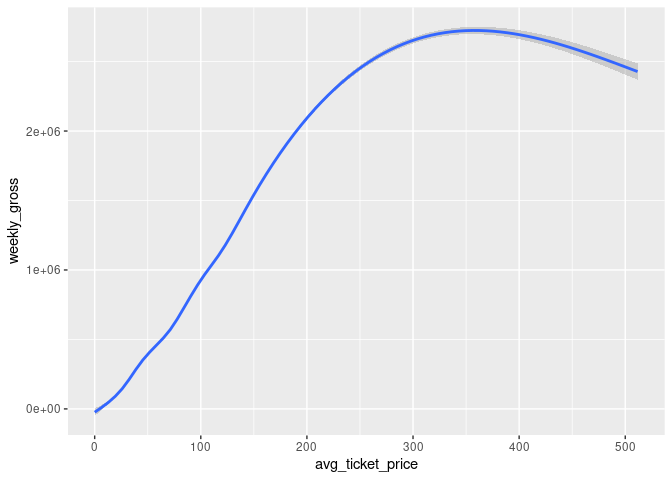
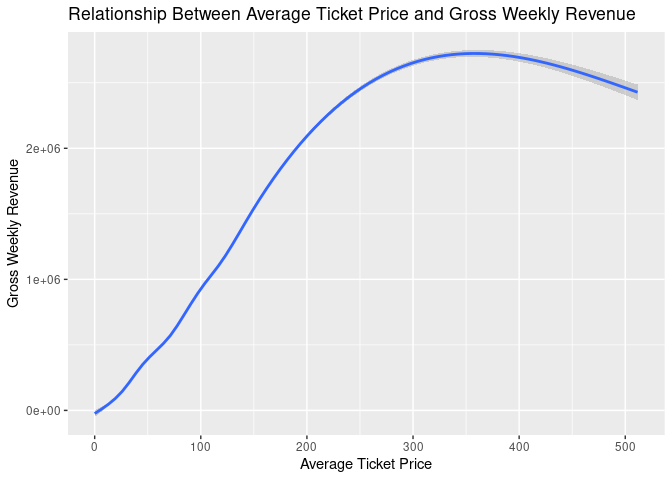
Add more details and graphs, closes #2

diff --git a/proposal/proposal.md b/proposal/proposal.md
@@ -12,10 +12,6 @@ library(tidytuesdayR)
 grosses <- readr::read_csv('https://raw.githubusercontent.com/rfordatascience/tidytuesday/master/data/2020/2020-04-28/grosses.csv', guess_max = 40000)
 ```
 
-*For instructions on what each section should include, please see the
-[project page](https://idsed.digital/assessments/project/#proposal) on
-the course website. Remove this text when completing your proposal*.
-
 ## 1. Introduction
 
 General Research Question: How to maximise gross weekly revenue in a
@@ -85,24 +81,34 @@ price” and “gross weekly revenue”, we use code:
 ``` r
 grosses%>%
   ggplot(aes(y=weekly_gross,x=avg_ticket_price))+
-  geom_smooth()
+  geom_smooth()+
+  labs(title = "Relationship Between Average Ticket Price and Gross Weekly Revenue",
+       x="Average Ticket Price",
+       y="Gross Weekly Revenue")
 ```
 
-![](proposal_files/figure-gfm/code_preliminary_1-1.png)<!-- --> By the
-first preliminary visualization, we get a curve which increases first
-but decreases after price of 350. We are going to explore the reason
-causes the decrease later.
+![](proposal_files/figure-gfm/code_preliminary_1-1.png)<!-- -->
+
+By the first preliminary visualization, we get a curve which increases
+first but decreases after price of 350. We are going to explore the
+reason causes the decrease later.
 
 ``` r
 grosses%>%
   ggplot(aes(x=pct_capacity,y=avg_ticket_price))+
-  geom_smooth()
+  geom_smooth()+
+  labs(
+    title="Influence of Theatre Seats Sold Percent",
+    x="Percent of Theatre Seats Sold",
+    y="Average Ticket Price"
+       )
 ```
 
-![](proposal_files/figure-gfm/code_preliminary_2-1.png)<!-- --> By the
-second preliminary visualization, we get a curve with increasing trend
-which implies higher percent of theatre seats sold causes higher average
-ticket price.
+![](proposal_files/figure-gfm/code_preliminary_2-1.png)<!-- -->
+
+By the second preliminary visualization, we get a curve with increasing
+trend which implies higher percent of theatre seats sold causes higher
+average ticket price.
 
 ``` r
 preliminary_analysis<-grosses%>%
@@ -189,6 +195,16 @@ theatre_dataframe<-as.data.frame.array(table_theatre)%>%
 
 By the forth preliminary analysis, we analyzed the different theatres
 and their frequency.
+
+By the previous preliminary analysis, we found that there are a bulk of
+different theatres with different seat capacity; percent sold of seat
+capacity impacts average ticket price. The size of a theatre might be a
+variable which influences the relationship between percent sold of seat
+capacity and average ticket price. We are going to mutate the theatres
+into different categories by size and do visualization.
+
+Moreover, we are going to create a new column which shows how long does
+each show in each theatre run, by “mutate” function.
 
 To support our hypothesis before, we have to draw graphs of the
 variables in the hypothesis correspondingly– the positive correlation
